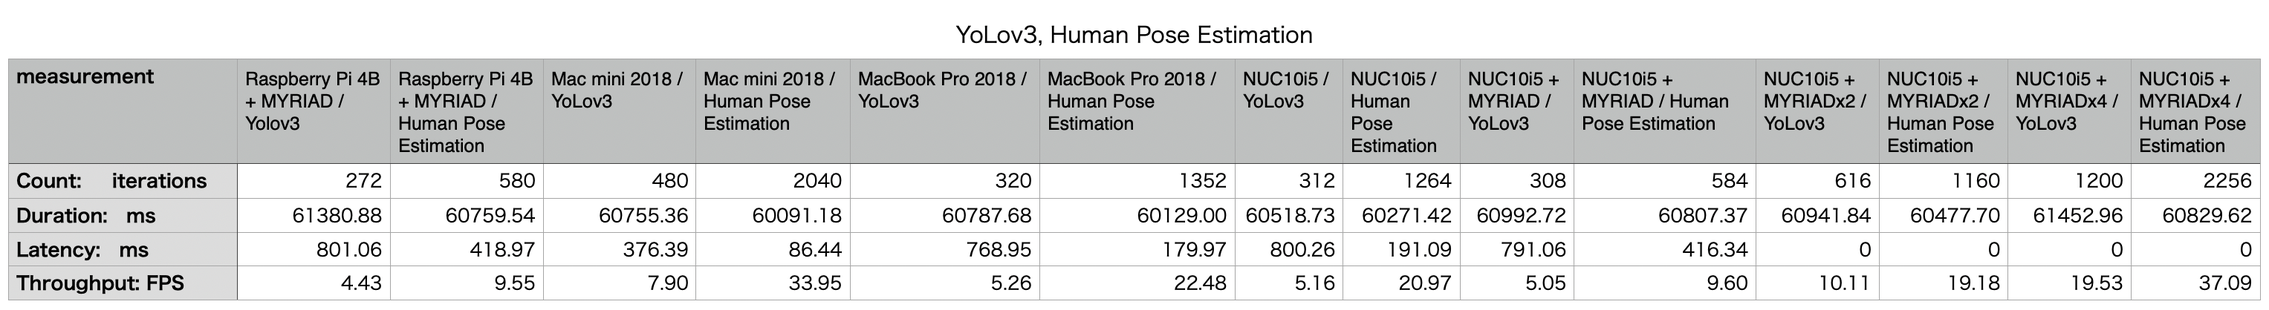
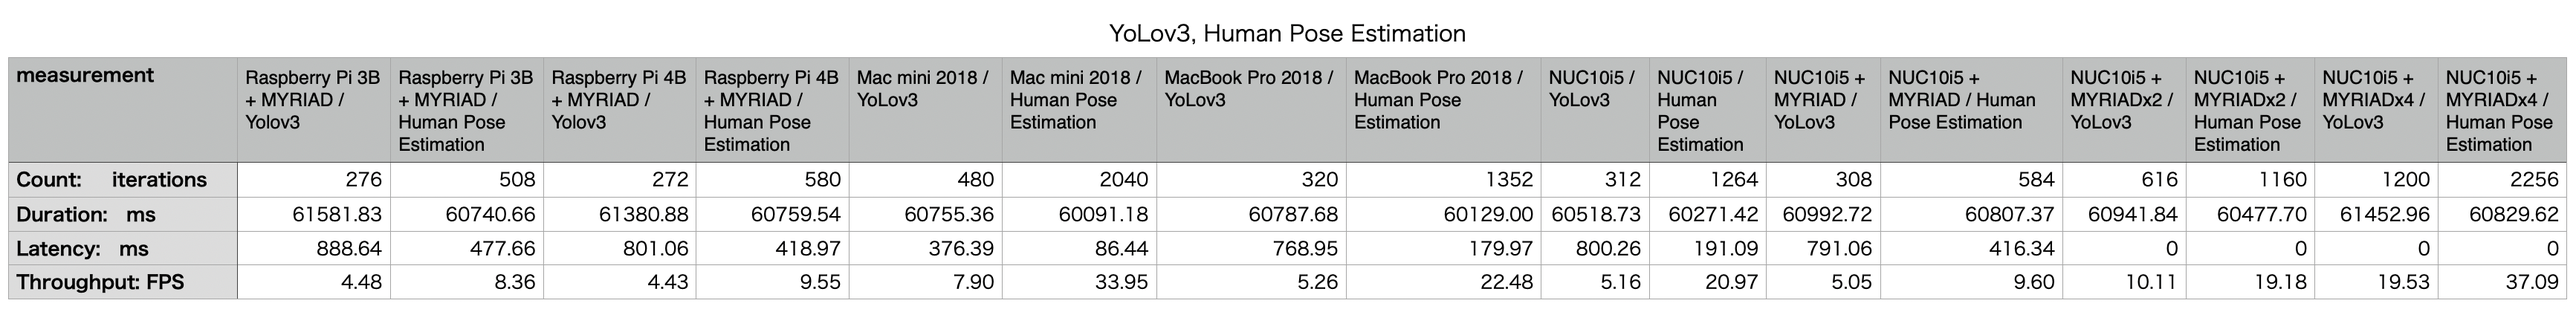
Add Raspi3B

diff --git a/README.md b/README.md
@@ -1,5 +1,6 @@
 # benchmark OpenVINO
 
+- Raspberry Pi 3B : ARM Cortex-A53, 4コア, 1.2GHz
 - Raspberry Pi 4B : ARM Cortex-A72, 4コア, 1.5GHz
 - Mac mini 2018 : Core i5-8500B, 6コア, 3.00GHz
 - MacBook Pro 2018 : Core i5-8259, 8コア, 2.30GHz
@@ -22,3 +23,7 @@
 ## tools
 
 - [Bencjmark C++ Tool](https://docs.openvinotoolkit.org/latest/openvino_inference_engine_samples_benchmark_app_README.html)
+
+## environment
+
+macOS Big Sur, Ubuntu 20.10, Raspberry Pi OS 10.6, OpenVINO 2021.1, Neural Compute Skick 2
